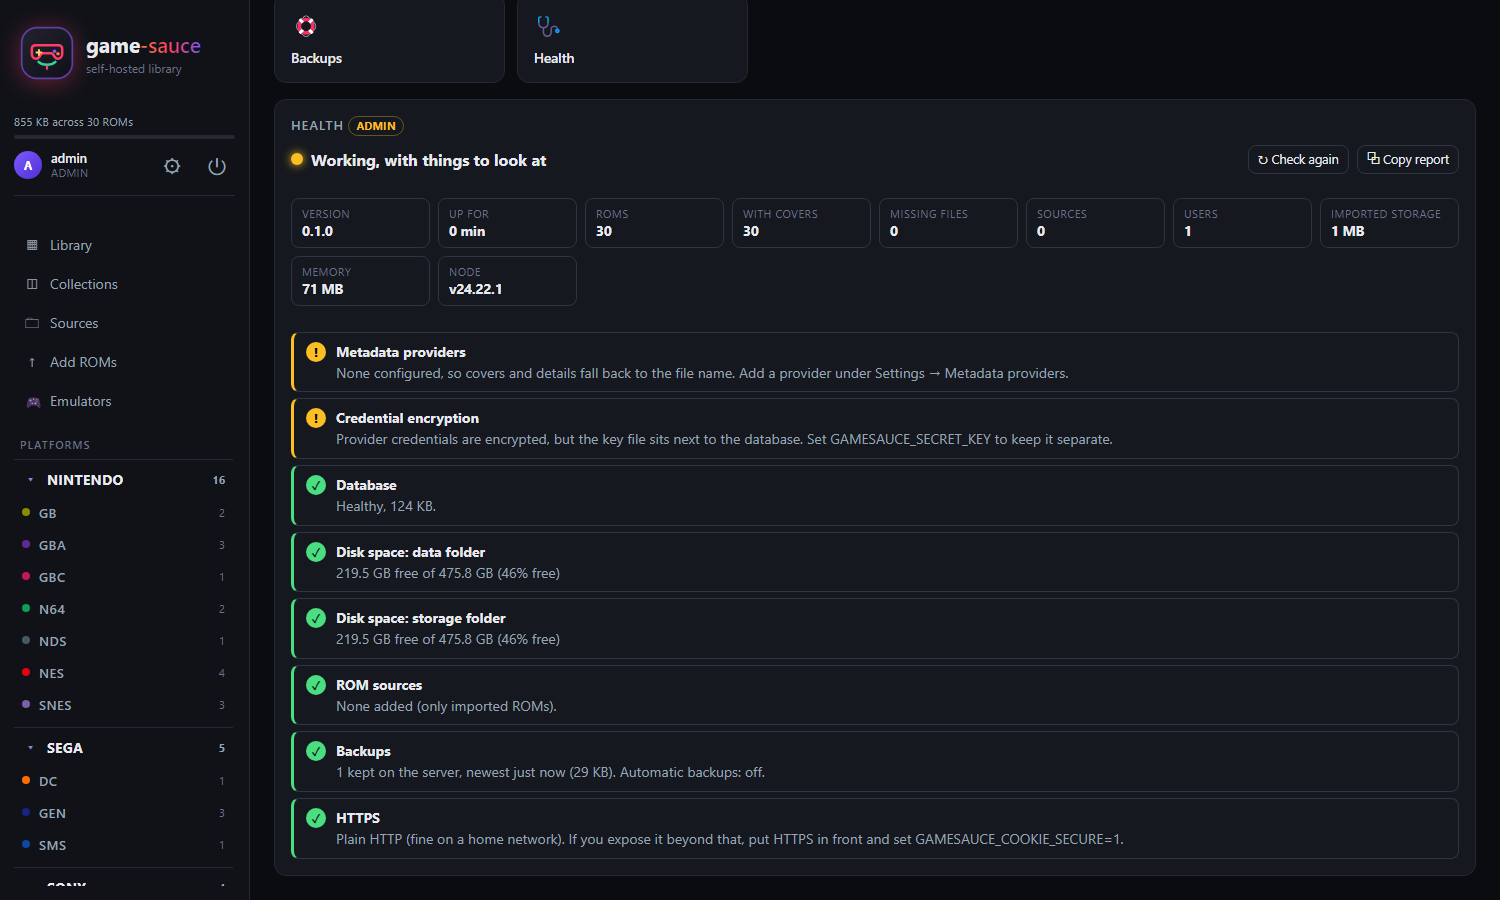
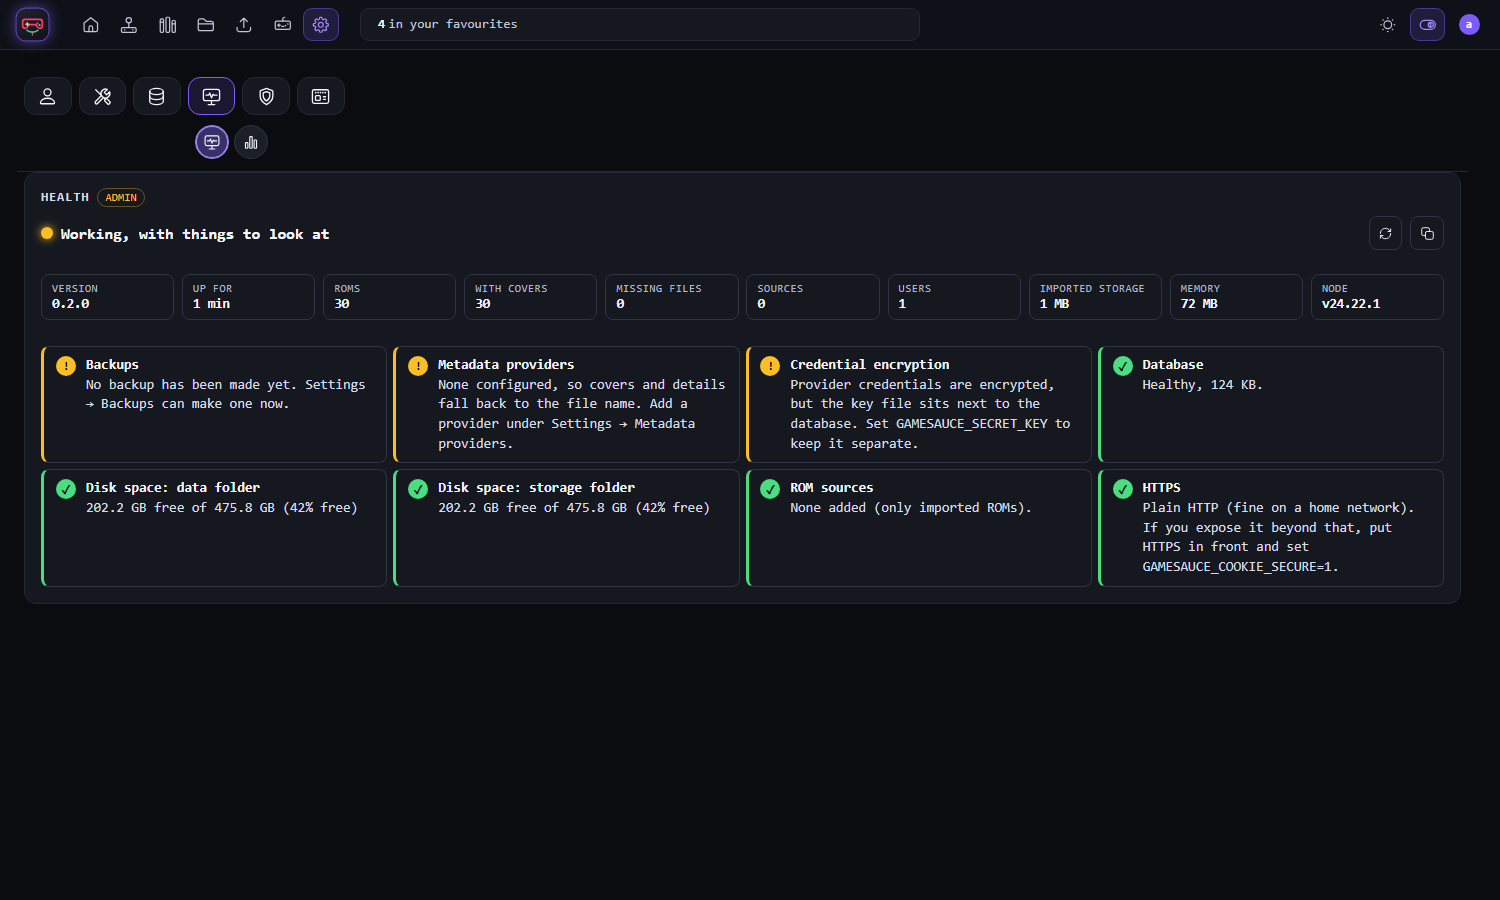
docs: Modern-look screenshots in README and user guide; Reset closes the open family row

diff --git a/public/modern.js b/public/modern.js
@@ -285,7 +285,7 @@ function buildLibraryTools(ic) {
 function toolClick(e) {
   const b = e.target.closest('#tl-reset, #tl-fav, #tl-hidden, #tl-nocover, #tl-select, #tl-fetch, #tl-sort, #tl-more');
   if (!b) return false;
-  if (b.id === 'tl-reset') { ctx.resetFilters?.().then(() => { renderChips(); syncTools(); }); }
+  if (b.id === 'tl-reset') { chipFamily = null; ctx.resetFilters?.().then(() => { renderChips(); syncTools(); }); }
   else if (b.id === 'tl-fav') proxy('[data-toggle="favorite"]');
   else if (b.id === 'tl-hidden') proxy('[data-toggle="hidden"]');
   else if (b.id === 'tl-nocover') proxy('[data-toggle="nocover"]');

diff --git a/tests/modern.test.js b/tests/modern.test.js
@@ -542,3 +542,7 @@ test('release 0.2.0: version, changelog heading and docs agree', () => {
   for (const f of ['README.md', 'docs/USER-GUIDE.md']) assert.doesNotMatch(read(f), /⛁ Orphans/, f + ' still says Orphans pill');
   assert.match(read('README.md'), /GAMESAUCE_MAX_UPLOAD/); assert.match(read('README.md'), /bulk\/lock/);
 });
+
+test('Reset also closes the open platform family row', () => {
+  assert.match(read('public/modern.js'), /b\.id === 'tl-reset'\) \{ chipFamily = null;/);
+});

diff --git a/CHANGELOG.md b/CHANGELOG.md
@@ -110,6 +110,7 @@ Highlights: the **Modern look** (icon bar, ticker, platform chips, pinned detail
 - **Previous / next arrows** in the game detail panel (and the ← / → keys) to step through the games without closing it. It follows the list you opened the game from: the library grid (loading more tiles as you go), the recently added row, or a collection.
 
 ### Changed
+- **Documentation screenshots** retaken in the Modern look from the invented-games demo (Home, Library, light mode, platforms, details window, Locked, Collections, CSV tools, Health, Emulators). Backups, Sources, Gamepad and Sign-in keep their Classic pictures.
 - **Modern ticker:** the game-sauce name is now always the first line, on launch and when you go back to Home (it was pushed down by notices such as System health or an update). Notices still follow straight after it. The health notice is calmer: "System health: a few notes to read" (or "needs a look" when something is actually wrong). The selection bar's lock button hover now reads "Lock / Unlock the selected games".
 - **"Orphans" is now "No source"** (the filter, its chip, and Modern's menu), with a tooltip saying what it means: games no longer attached to a source folder, and that scanning a source that covers their folder reconnects them. Settings > Stats still counts them under "Orphans (no source folder)".
 - **"Game names (CSV)" is now "CSV tools"** (Settings > Library tools).
@@ -178,6 +179,7 @@ Highlights: the **Modern look** (icon bar, ticker, platform chips, pinned detail
 - **Game detail window:** the previous / next / count controls are squared green tiles centred above the cover, the cover is smaller, and the action buttons are now icon-only with a hover tip (download, play, favourite, collection, browser-play switch, hide, refresh metadata, upload cover, delete).
 
 ### Fixed
+- **Modern: Reset now also closes the open platform family row** (the platforms under Nintendo, say) instead of leaving it showing with All selected.
 - **Modern: the Emulators page started lower than Sources, Add ROMs and the rest.** Its "Check latest releases" button had a row of its own above the content. On wide screens the button now sits in the top-right corner, so the page starts at the same height as the others (measured: 84 px on all three). On a narrow screen it keeps its row.
 - **Locked games showed as "Orphaned" even though their file was exactly where a source looks.** When a source was removed, any game locked with Keep survived with its source link cleared. Adding the folder again and scanning found the same file but skipped it as a duplicate of the surviving entry, so it never reconnected and stayed "orphaned" for good. A scan now takes such a game back: same entry, same id, same lock, attached to the source again, no duplicate. (The 49 Genesis games on the live server are this case: a scan of the Genesis source reconnects them.) A game whose file is not under any scanned folder is left alone.
 - **A play-only person was offered "Add ROMs"** in the empty "No ROMs match" screen (seen when a platform has nothing playable). It is hidden for them.

diff --git a/docs/USER-GUIDE.md b/docs/USER-GUIDE.md
@@ -53,11 +53,21 @@ delete-from-disk. Imported copies in `storage/roms` are removed together with th
 
 ## 3. Library
 
+The Library in the Modern look (Classic has the same features with a sidebar):
+
 ![The Library](screenshots/library.png)
 
-Picking a platform shows its name above the tiles:
+The Home page, with the ticker, Continue playing and Recently added:
+
+![Home](screenshots/home.png)
+
+Pick a family, then one or more platforms; the heading names them:
 
 ![One platform selected](screenshots/platform.png)
+
+Admins can find locked games, select them all and unlock them in one go:
+
+![Locked games](screenshots/locked.png)
 
 - **Sidebar:** your name, settings (⚙) and sign out (⏻) sit under the logo. Below are Library,
   Collections, Sources, Add ROMs and Emulators, then every platform with a count, grouped by
@@ -88,7 +98,7 @@ Picking a platform shows its name above the tiles:
 
 Click any tile.
 
-![Game details](screenshots/detail.png)
+![Game details, pinned beside the games](screenshots/detail.png)
 
 - **‹ 3 / 24 ›** at the top steps to the previous or next game without closing the panel (the
   **←** and **→** keys do the same). It walks the list you opened the game from: the library grid,
@@ -361,6 +371,8 @@ Settings > Library tools > CSV tools (admin) has an **Export your game data** bo
 ### Bringing an export back
 
 The CSV import reads every column the export writes, so you can edit titles, developers, genres, years, descriptions or tags in a spreadsheet and import the file again (a filled cell replaces what the game has; an empty cell leaves it alone). To bring covers back, use **Import cover pictures** in the same panel with the zip from **Export covers**: each picture goes to the game with the matching file name on the matching platform. Preview shows what would change, and games that already have a cover are skipped unless you tick the box. Only JPEG, PNG and WebP pictures are accepted.
+
+![CSV tools](screenshots/csv-tools.png)
 
 To bring in details and covers in one go, choose the CSV and add the zip from **Export covers** in the **Cover pictures (zip)** box of the same import. The CSV's `cover_file` column names the picture for each game, so the pictures do not have to be named after the games' files. One Preview shows both parts, and one Apply saves them.
 

diff --git a/README.md b/README.md
@@ -9,7 +9,7 @@ library, enrich it with metadata and artwork, play many older games in the brows
 ROMs back out. Built for a household: you run it, and you give accounts to the people you trust.
 Express + SQLite on the server, a single static page on the client, no build step.
 
-![The Library](docs/screenshots/library.png)
+![The Library (Modern look)](docs/screenshots/library.png)
 
 **New here? Want to try it on your own computer?** → [Quick start for a desktop](docs/QUICKSTART-DESKTOP.md): install Node.js, download the ZIP, run `./start.sh` (or double-click `start.bat` on Windows). No server, no Docker, no settings to edit.
 
@@ -52,12 +52,21 @@ Express + SQLite on the server, a single static page on the client, no build ste
 <details>
 <summary>More screenshots</summary>
 
+**Modern look**
+
 | | |
 |---|---|
-| ![One platform](docs/screenshots/platform.png) | ![Game details](docs/screenshots/detail.png) |
+| ![Home](docs/screenshots/home.png) | ![One platform, details window pinned](docs/screenshots/detail.png) |
+| ![Locked games, select all, unlock](docs/screenshots/locked.png) | ![Collections](docs/screenshots/collections.png) |
+| ![CSV tools: one CSV plus one zip](docs/screenshots/csv-tools.png) | ![Health](docs/screenshots/health.png) |
+| ![Emulator guide](docs/screenshots/emulators.png) | ![Light mode](docs/screenshots/library-light.png) |
+
+**Classic look**
+
+| | |
+|---|---|
 | ![Backups and restore](docs/screenshots/backups.png) | ![Gamepad navigation](docs/screenshots/gamepad.png) |
-| ![Sources](docs/screenshots/sources.png) | ![Settings](docs/screenshots/settings.png) |
-| ![Emulator guide](docs/screenshots/emulators.png) | |
+| ![Sources](docs/screenshots/sources.png) | |
 
 ![Sign-in screen](docs/screenshots/login.png)
 
